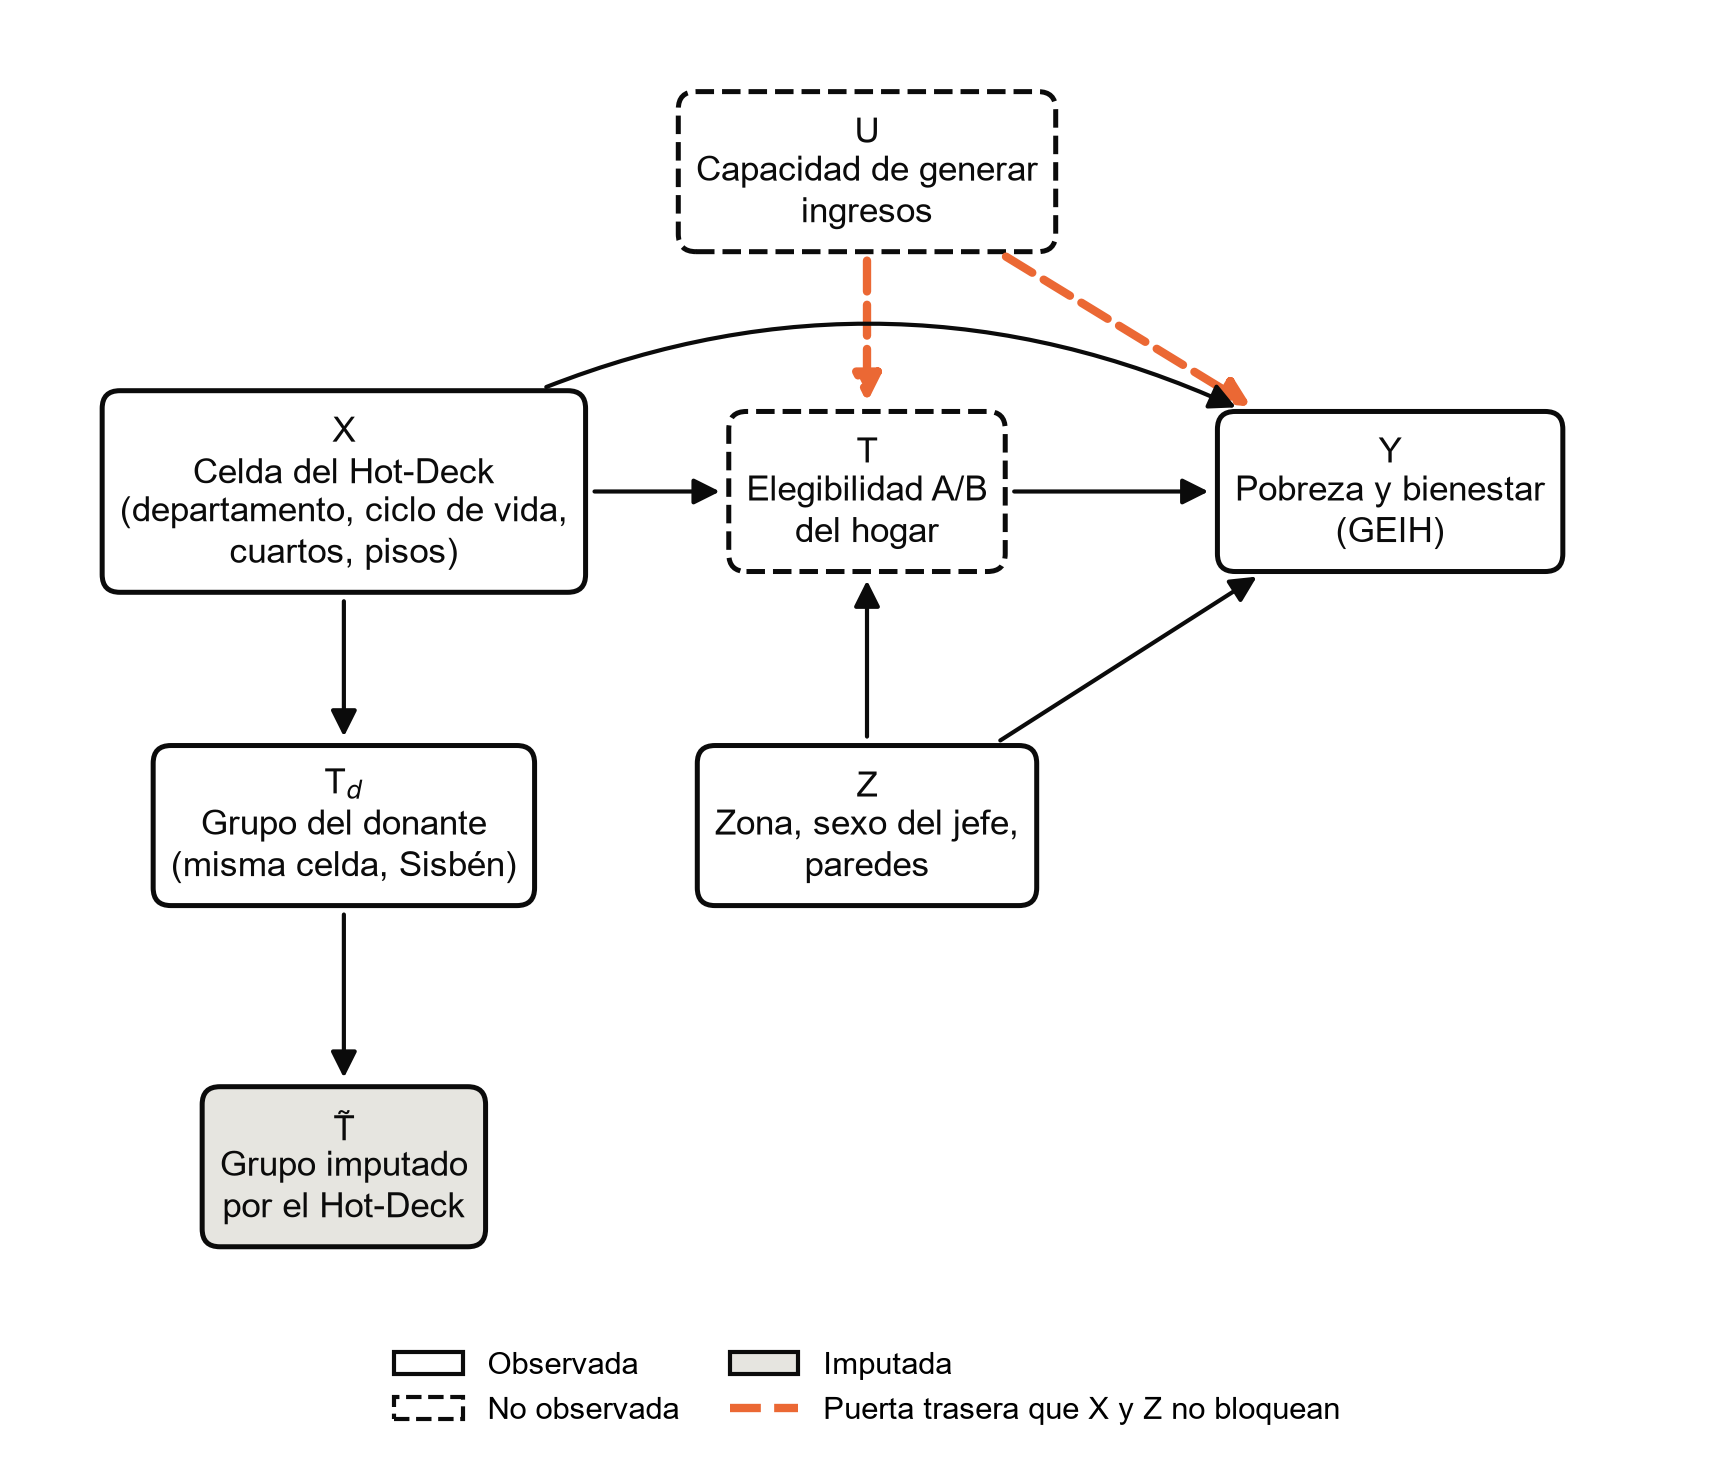
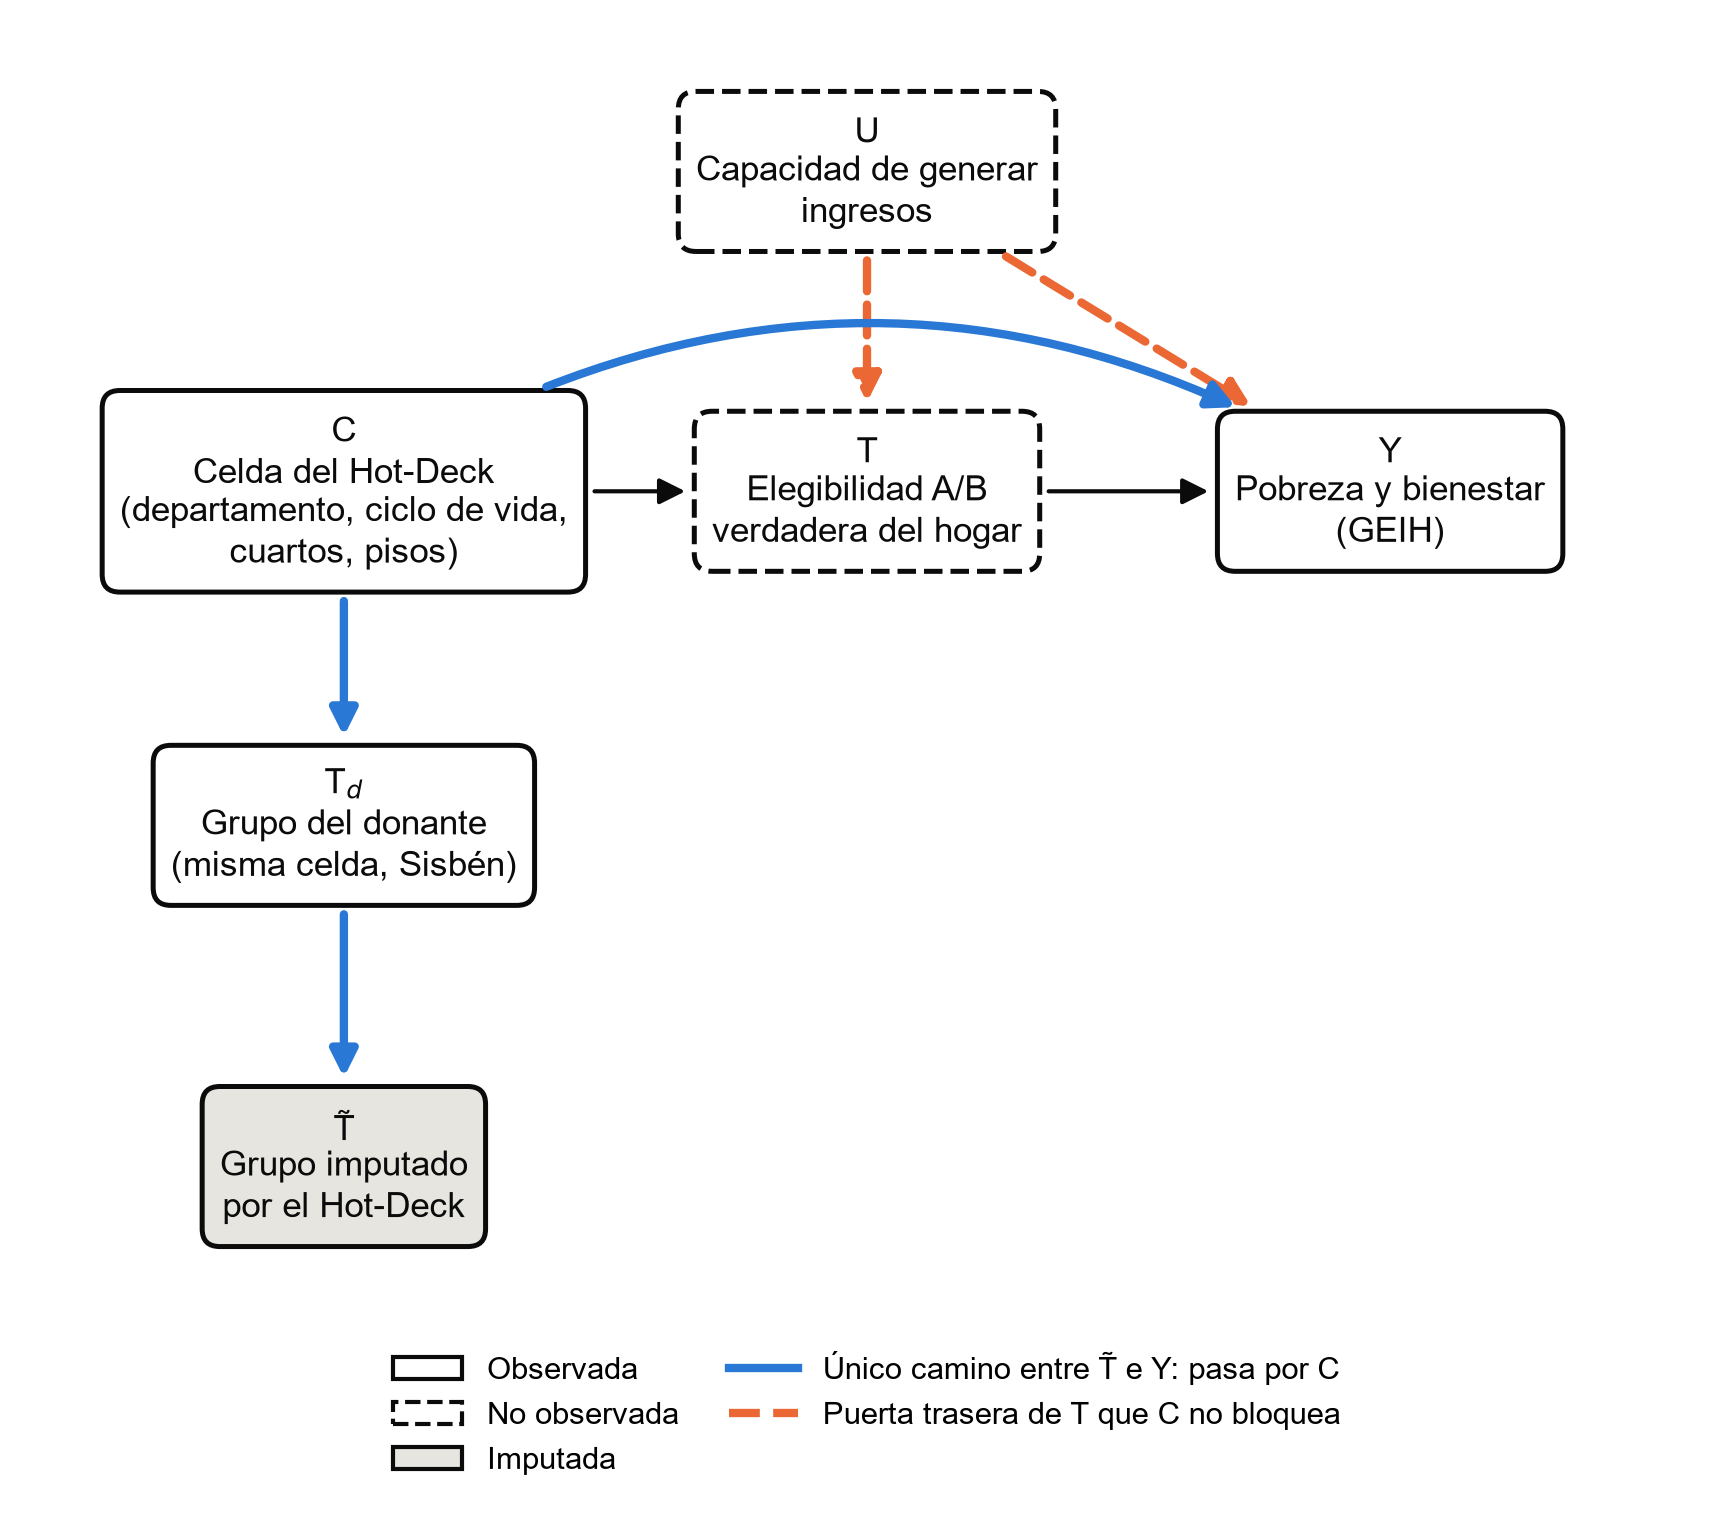
DAG y nubes de la Proposicion 1 con la notacion de la metodologia

diff --git a/src/utils/figuras_tesis.py b/src/utils/figuras_tesis.py
@@ -15,10 +15,13 @@
                                 Sisbén (LASSO, Ridge, SHAP)
   fig_dag_ignorabilidad_marco   DAG genérico de la ignorabilidad condicional
                                 (sección 2.2, notación T, Y, X, W)
-  fig_dag_ignorabilidad_hotdeck el mismo supuesto en el enlace por celdas: el
-                                grupo imputado es un placebo. Los dos DAG van
-                                en formato APA (sin título en la imagen) y
+  fig_dag_ignorabilidad_hotdeck DAG de la Proposición 1: dada la celda C, el
+                                grupo imputado es independiente de Y. Los dos DAG
+                                van en formato APA (sin título en la imagen) y
                                 comprueban con d-separación su nota
+  fig_nubes_celda_placebo.png   ilustración simulada* de la Proposición 1: en
+                                una celda, las nubes por T se separan y por T~
+                                son iguales
   fig_dml_tres_pasos.png        esquema del DML: partición cruzada, los dos
                                 residuos y la regresión final (sección 2.2)
 
@@ -297,14 +300,14 @@ def grafo_ignorabilidad_marco():
 
 
 def grafo_ignorabilidad_hotdeck():
-    """DAG del enlace por celdas. T es la elegibilidad A/B del hogar (no se
-    observa en la GEIH); T_d, la del donante sorteado en la misma celda;
-    T~, el grupo que imputa el Hot-Deck."""
+    """DAG del enlace por celdas, con la notación de la metodología. C es la
+    celda; T, la elegibilidad A/B del hogar (no se observa en la GEIH);
+    T_d, la del donante sorteado en la misma celda; T~, el grupo que imputa
+    el Hot-Deck."""
     import networkx as nx
 
     g = nx.DiGraph()
-    g.add_edges_from([("U", "T"), ("U", "Y"), ("X", "T"), ("X", "Y"), ("Z", "T"), ("Z", "Y"),
-                      ("T", "Y"), ("X", "Td"), ("Td", "Ti")])
+    g.add_edges_from([("U", "T"), ("U", "Y"), ("C", "T"), ("C", "Y"), ("T", "Y"), ("C", "Td"), ("Td", "Ti")])
     return g
 
 
@@ -320,7 +323,8 @@ def _puerta_trasera(g, t: str, y: str, ajuste: set[str]) -> bool:
 
 def _dibujar_dag(g, pos: dict, etiqueta: dict, nombre: str, no_observado: set[str], abiertos: set,
                  etiqueta_abiertos: str, imputado: set[str] = frozenset(), curva: dict | None = None,
-                 tam: tuple[float, float] = (7.2, 5.6)) -> Path:
+                 tam: tuple[float, float] = (7.2, 5.6), bloqueados: set = frozenset(),
+                 etiqueta_bloqueados: str = "") -> Path:
     """Formato APA: sin título en la imagen (número, título y nota van en el
     texto), sans serif, fondo blanco, 300 dpi."""
     from matplotlib.lines import Line2D
@@ -344,11 +348,11 @@ def _dibujar_dag(g, pos: dict, etiqueta: dict, nombre: str, no_observado: set[st
                                          linestyle="--" if n in no_observado else "-"))
         fig.canvas.draw()  # las cajas existen recién después de dibujar el texto
         for u, v in g.edges():
-            abierto = (u, v) in abiertos
+            abierto, bloqueado = (u, v) in abiertos, (u, v) in bloqueados
             ax.annotate("", xy=pos[v], xytext=pos[u], zorder=4,
                         arrowprops=dict(arrowstyle="-|>", mutation_scale=13, shrinkA=2, shrinkB=2,
-                                        color=NARANJA if abierto else TINTA,
-                                        linewidth=2.0 if abierto else 1.0,
+                                        color=NARANJA if abierto else AZUL if bloqueado else TINTA,
+                                        linewidth=2.0 if abierto or bloqueado else 1.0,
                                         linestyle="--" if abierto else "-",
                                         patchA=cajas[u].get_bbox_patch(), patchB=cajas[v].get_bbox_patch(),
                                         connectionstyle=f"arc3,rad={curva.get((u, v), 0.0)}"))
@@ -356,6 +360,8 @@ def _dibujar_dag(g, pos: dict, etiqueta: dict, nombre: str, no_observado: set[st
                    Patch(facecolor="white", edgecolor=TINTA, linestyle="--", label="No observada")]
         if imputado:
             leyenda.append(Patch(facecolor="#e6e5e0", edgecolor=TINTA, label="Imputada"))
+        if bloqueados:
+            leyenda.append(Line2D([], [], color=AZUL, linewidth=2.0, label=etiqueta_bloqueados))
         leyenda.append(Line2D([], [], color=NARANJA, linewidth=2.0, linestyle="--", label=etiqueta_abiertos))
         ax.legend(handles=leyenda, loc="upper center", bbox_to_anchor=(0.5, 0.0), fontsize=7.5, frameon=False,
                   handlelength=2.2, ncol=len(leyenda) if len(leyenda) <= 3 else 2, columnspacing=1.6)
@@ -384,27 +390,67 @@ def dag_ignorabilidad_marco() -> Path:
 
 
 def dag_ignorabilidad_hotdeck() -> Path:
-    """DAG del enlace por celdas (metodología). Comprueba con d-separación
-    las dos afirmaciones de su nota."""
+    """DAG de la Proposición 1 (metodología). Comprueba con d-separación las
+    afirmaciones de su nota."""
     import networkx as nx
 
     g = grafo_ignorabilidad_hotdeck()
-    assert nx.is_d_separator(g, {"Ti"}, {"Y"}, {"X"}), "T~ debería ser independiente de Y dada X"
-    assert not nx.is_d_separator(g, {"Ti"}, {"Y"}, set()), "sin X, T~ y Y deberían estar asociadas"
-    assert not _puerta_trasera(g, "T", "Y", {"X", "Z"}), "U debería dejar abierta la puerta trasera"
-    assert _puerta_trasera(g.subgraph(set(g) - {"U"}), "T", "Y", {"X", "Z"}), "sin U, X y Z deberían bastar"
-    pos = {"U": (0.50, 1.00), "X": (0.00, 0.55), "T": (0.50, 0.55), "Y": (1.00, 0.55),
-           "Z": (0.50, 0.08), "Td": (0.00, 0.08), "Ti": (0.00, -0.40)}
+    assert nx.is_d_separator(g, {"Ti"}, {"Y"}, {"C"}), "T~ debería ser independiente de Y dada C"
+    assert not nx.is_d_separator(g, {"Ti"}, {"Y"}, set()), "sin C, T~ y Y deberían estar asociadas"
+    assert not _puerta_trasera(g, "T", "Y", {"C"}), "U debería dejar abierta la puerta trasera de T"
+    pos = {"U": (0.50, 1.00), "C": (0.00, 0.55), "T": (0.50, 0.55), "Y": (1.00, 0.55),
+           "Td": (0.00, 0.08), "Ti": (0.00, -0.40)}
     etiqueta = {"U": "U\nCapacidad de generar\ningresos",
-                "X": "X\nCelda del Hot-Deck\n(departamento, ciclo de vida,\ncuartos, pisos)",
-                "T": "T\nElegibilidad A/B\ndel hogar",
+                "C": "C\nCelda del Hot-Deck\n(departamento, ciclo de vida,\ncuartos, pisos)",
+                "T": "T\nElegibilidad A/B\nverdadera del hogar",
                 "Y": "Y\nPobreza y bienestar\n(GEIH)",
-                "Z": "Z\nZona, sexo del jefe,\nparedes",
                 "Td": "T$_d$\nGrupo del donante\n(misma celda, Sisbén)",
                 "Ti": "T̃\nGrupo imputado\npor el Hot-Deck"}
     return _dibujar_dag(g, pos, etiqueta, "fig_dag_ignorabilidad_hotdeck.png", no_observado={"U", "T"},
-                        abiertos={("U", "T"), ("U", "Y")}, etiqueta_abiertos="Puerta trasera que X y Z no bloquean",
-                        imputado={"Ti"}, curva={("X", "Y"): -0.32})
+                        abiertos={("U", "T"), ("U", "Y")}, etiqueta_abiertos="Puerta trasera de T que C no bloquea",
+                        bloqueados={("C", "Td"), ("Td", "Ti"), ("C", "Y")},
+                        etiqueta_bloqueados="Único camino entre T̃ e Y: pasa por C",
+                        imputado={"Ti"}, curva={("C", "Y"): -0.32})
+
+
+def nubes_celda(efecto: float = 0.8, n: int = 90, semilla: int = 7) -> Path:
+    """Ilustración simulada* de la Proposición 1, como la dibujó el director:
+    dentro de una celda, los mismos hogares agrupados por el T verdadero
+    (las nubes se separan en el efecto) y por el T imputado (las nubes son
+    iguales). Y = efecto·T + ruido; T y T~ son Bernoulli(0,5)
+    independientes, porque el donante se sortea sin mirar Y."""
+    rng = np.random.default_rng(semilla)
+    t = (rng.random(n) < 0.5).astype(int)
+    t_imp = (rng.random(n) < 0.5).astype(int)
+    y = efecto * t + rng.normal(size=n)
+    with plt.rc_context({"font.family": ["Arial", "DejaVu Sans"]}):
+        fig, ejes = plt.subplots(1, 2, figsize=(7.4, 3.6), sharey=True)
+        fig.patch.set_facecolor("white")
+        for ax, grupo, rotulo, nombre_t in ((ejes[0], t, "a) Agrupado por la elegibilidad verdadera*", "T"),
+                                            (ejes[1], t_imp, "b) Agrupado por el grupo imputado*", "T̃")):
+            ax.set_facecolor("white")
+            ax.grid(axis="y", color=REJILLA, linewidth=0.6)
+            ax.grid(axis="x", visible=False)
+            jitter = rng.uniform(-0.16, 0.16, n)
+            ax.scatter(grupo + jitter, y, s=14, color=TINTA_2, alpha=0.75, linewidths=0, zorder=3)
+            medias = [y[grupo == k].mean() for k in (0, 1)]
+            for k, m in enumerate(medias):
+                ax.plot([k - 0.28, k + 0.28], [m, m], color=NARANJA, linewidth=2.2, zorder=4)
+            dif = medias[1] - medias[0]
+            ax.text(0.5, 0.97, f"Diferencia de medias: {dif:.2f}".replace(".", ",").replace("-", "−"),
+                    transform=ax.transAxes, ha="center", va="top", fontsize=8.5, color=TINTA)
+            ax.set_xticks([0, 1], [f"{nombre_t} = 0", f"{nombre_t} = 1"])
+            ax.set_xlim(-0.6, 1.6)
+            ax.set_ylim(y.min() - 0.3, y.max() + 0.9)
+            ax.set_title(rotulo, fontsize=9, loc="left", fontweight="normal", color=TINTA)
+        ejes[0].set_ylabel("Y (resultado)")
+        _coma(ejes[0], "y", 1)
+        fig.tight_layout()
+        OUT.mkdir(parents=True, exist_ok=True)
+        ruta = OUT / "fig_nubes_celda_placebo.png"
+        fig.savefig(ruta, dpi=300, bbox_inches="tight", facecolor="white")
+        plt.close(fig)
+    return ruta
 
 
 def dml_tres_pasos() -> Path:
@@ -474,7 +520,7 @@ def main(con_datos: bool = True) -> None:
     _estilo()
     rutas = [cotas_por_celda(), errores_por_departamento(), atenuacion(), arquitectura(), estabilidad_hotdeck(),
              importancia_oe1(), dag_ignorabilidad_marco(),
-             dag_ignorabilidad_hotdeck(), dml_tres_pasos()]
+             dag_ignorabilidad_hotdeck(), nubes_celda(), dml_tres_pasos()]
     if con_datos:
         rutas.append(propension_celda())
     print("\n".join(f"Guardado: {r}" for r in rutas))

diff --git a/docs/anexos_tesis/FIGURAS_APA.md b/docs/anexos_tesis/FIGURAS_APA.md
@@ -10,11 +10,12 @@ nota.
 |---|---|---|
 | Figura 1 | Sección 2.2, después del párrafo que define la ignorabilidad condicional y el solapamiento | [`fig_dag_ignorabilidad_marco.png`](figuras/fig_dag_ignorabilidad_marco.png) |
 | Figura 2 | Sección 2.2, junto al párrafo del DML (comentario del director: «una figura con los tres pasos ayuda más que este párrafo») | [`fig_dml_tres_pasos.png`](figuras/fig_dml_tres_pasos.png) |
-| Figura N | Metodología, donde se explica el Hot-Deck o el placebo del DML | [`fig_dag_ignorabilidad_hotdeck.png`](figuras/fig_dag_ignorabilidad_hotdeck.png) |
+| Figura N | Metodología, junto a la Proposición 1 (el párrafo de la «propiedad de independencia condicional») | [`fig_dag_ignorabilidad_hotdeck.png`](figuras/fig_dag_ignorabilidad_hotdeck.png) |
+| Figura N + 1 | Inmediatamente después, la ilustración que dibujó el director (las dos nubes de la celda) | [`fig_nubes_celda_placebo.png`](figuras/fig_nubes_celda_placebo.png) |
 
 La Figura 1 usa la notación de la sección 2.2 (T, Y, X, W) y no menciona
-el enlace. La segunda aplica el mismo supuesto al enlace por celdas; el
-número se ajusta al orden del documento.
+el enlace. Las dos de la metodología usan su notación (C, T, T̃, Y); el número se
+ajusta al orden del documento.
 
 ---
 
@@ -53,23 +54,36 @@ con base en Chernozhukov et al. (2018).
 
 **Figura N**
 
-*Grafo acíclico dirigido de la ignorabilidad condicional en el enlace por celdas entre la GEIH y el Sisbén IV*
+*Grafo acíclico dirigido de la Proposición 1: independencia condicional del grupo imputado*
 
-![DAG de la ignorabilidad en el enlace por celdas](figuras/fig_dag_ignorabilidad_hotdeck.png)
+![DAG de la Proposición 1](figuras/fig_dag_ignorabilidad_hotdeck.png)
 
-*Nota.* X es la celda del Hot-Deck (departamento, ciclo de vida del jefe,
-cuartos y material de los pisos), Z son las características que modifican
-el efecto sin entrar en la celda, U es la capacidad no observada de
-generar ingresos, T es la elegibilidad A/B del propio hogar (no observada
-en la GEIH), T<sub>d</sub> es el grupo del donante sorteado en la misma
-celda del Sisbén IV y T̃ es el grupo que el Hot-Deck imputa al hogar de la
-GEIH. Dada X, el grupo imputado es independiente del resultado
-(T̃ ⫫ Y | X), por lo que una estimación con T̃ funciona como placebo del
-emparejamiento y no como efecto del Sisbén. En cambio, la ignorabilidad
-condicional de la elegibilidad real, Y(t) ⫫ T | X, Z, no se cumple: el
-camino T ← U → Y (en naranja) no se bloquea con variables observadas
-(criterio de la puerta trasera; Pearl, 2009). Elaboración propia con base
-en la GEIH 2024 (DANE) y el Sisbén IV (DNP).
+*Nota.* C es la celda del Hot-Deck (departamento, ciclo de vida del jefe,
+cuartos y material de los pisos), U la capacidad no observada de generar
+ingresos, T la elegibilidad A/B verdadera del hogar (no observada en la
+GEIH), T<sub>d</sub> el grupo del donante sorteado en la misma celda del
+Sisbén IV y T̃ el grupo que el Hot-Deck imputa al hogar de la GEIH. El
+único camino entre T̃ e Y pasa por C (en azul), de modo que, dada la celda,
+T̃ ⫫ Y | C: una estimación con T̃ es un placebo del emparejamiento. La
+elegibilidad verdadera, en cambio, conserva la puerta trasera T ← U → Y
+(en naranja), que C no bloquea (Pearl, 2009). Elaboración propia.
+
+---
+
+**Figura N + 1**
+
+*Resultado de los hogares de una celda según la elegibilidad verdadera y según el grupo imputado*
+
+![Nubes de una celda](figuras/fig_nubes_celda_placebo.png)
+
+*Nota.* Datos simulados (\*): 90 hogares de una misma celda, con un efecto
+verdadero de 0,8 sobre Y y ruido normal estándar. Los dos paneles muestran
+los mismos hogares; las líneas son las medias de cada grupo. Agrupados por
+la elegibilidad verdadera (panel a), las nubes se separan en el efecto;
+agrupados por el grupo imputado (panel b), que se sortea en la celda sin
+mirar Y, las dos nubes son iguales y la diferencia es cero, sea cual sea
+el efecto verdadero. Elaboración propia; la comprobación con 200 sorteos
+está en el anexo de proposiciones.
 
 ---
 

diff --git a/docs/anexos_tesis/README.md b/docs/anexos_tesis/README.md
@@ -27,7 +27,8 @@ repositorio, así que no puede diferir de él.
 | `fig_importancia_variables_oe1.png` | Importancia de cada variable para predecir el grupo del Sisbén con LASSO, Ridge y SHAP (OE1) | `seleccion_variables_lasso_ridge_shap.csv` |
 | `fig_dag_ignorabilidad_marco.png` | DAG genérico de la ignorabilidad condicional (Figura 1, sección 2.2, notación T, Y, X, W) | Grafo del módulo, sin datos |
 | `fig_dml_tres_pasos.png` | Los tres pasos del DML: residuo del resultado, residuo del tratamiento y regresión de residuos, con la partición cruzada (Figura 2, sección 2.2) | Esquema, sin datos |
-| `fig_dag_ignorabilidad_hotdeck.png` | El mismo supuesto en el enlace por celdas: el grupo imputado es independiente de Y dada la celda; la elegibilidad real no, por U | Grafo del módulo, sin datos |
+| `fig_dag_ignorabilidad_hotdeck.png` | DAG de la Proposición 1: dada la celda C, el grupo imputado es independiente de Y; la elegibilidad verdadera no, por U | Grafo del módulo, sin datos |
+| `fig_nubes_celda_placebo.png` | Ilustración\* de la Proposición 1: en una celda, las nubes por T se separan y por T̃ son iguales | Simulación del módulo, sin datos |
 | `fig_propension_celda.png` | Propensión estimada frente a la empírica por celda, con la celda como indicadoras y como número | Muestra de estimación (`data/2_models/`, no versionada) |
 
 Los DAG están en `docs/resultados/2_diagnostico_datos_reales/` y la
